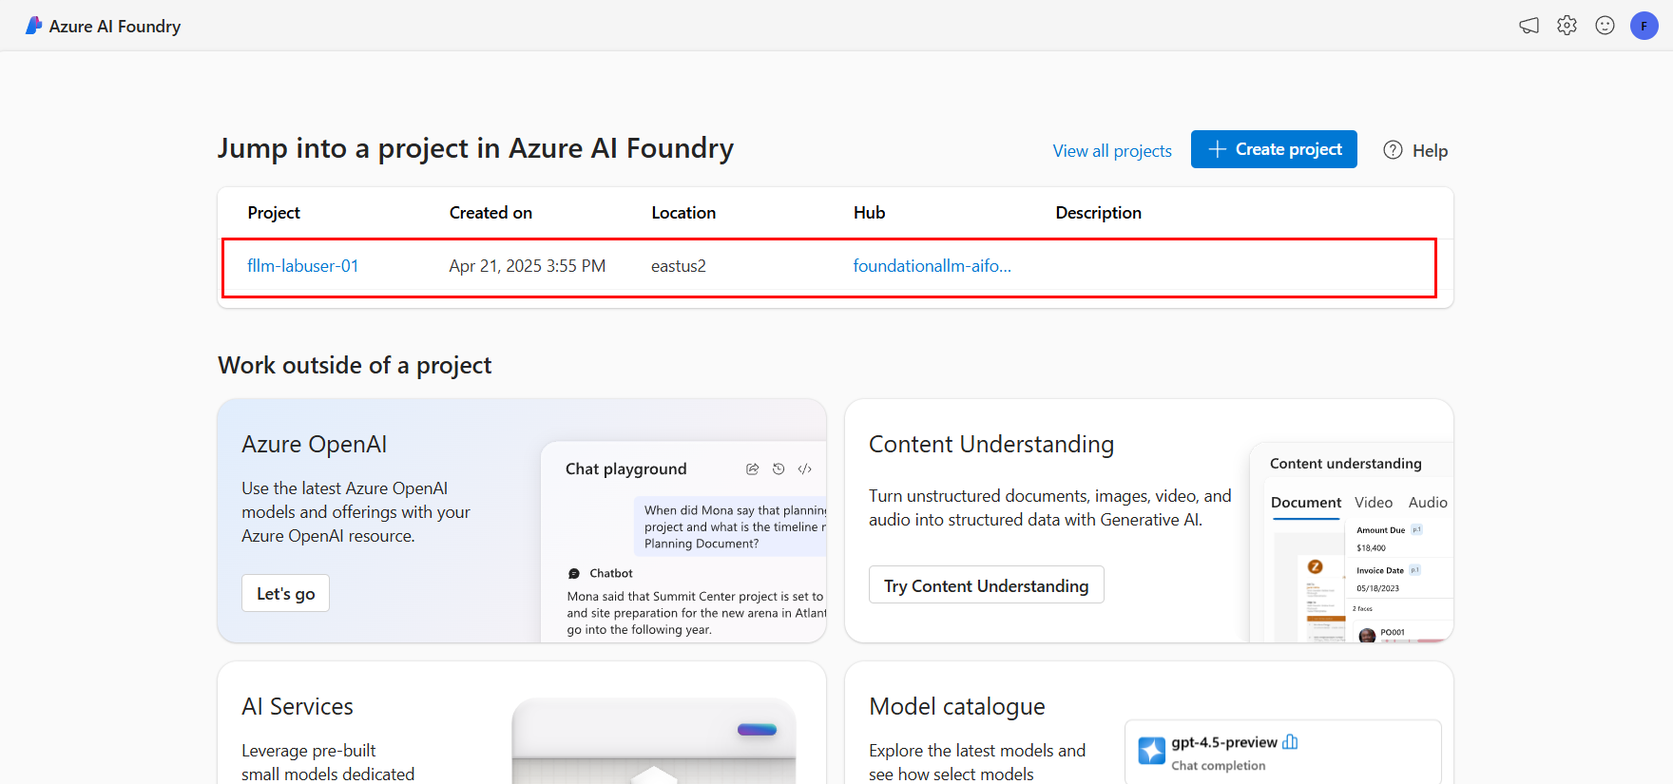
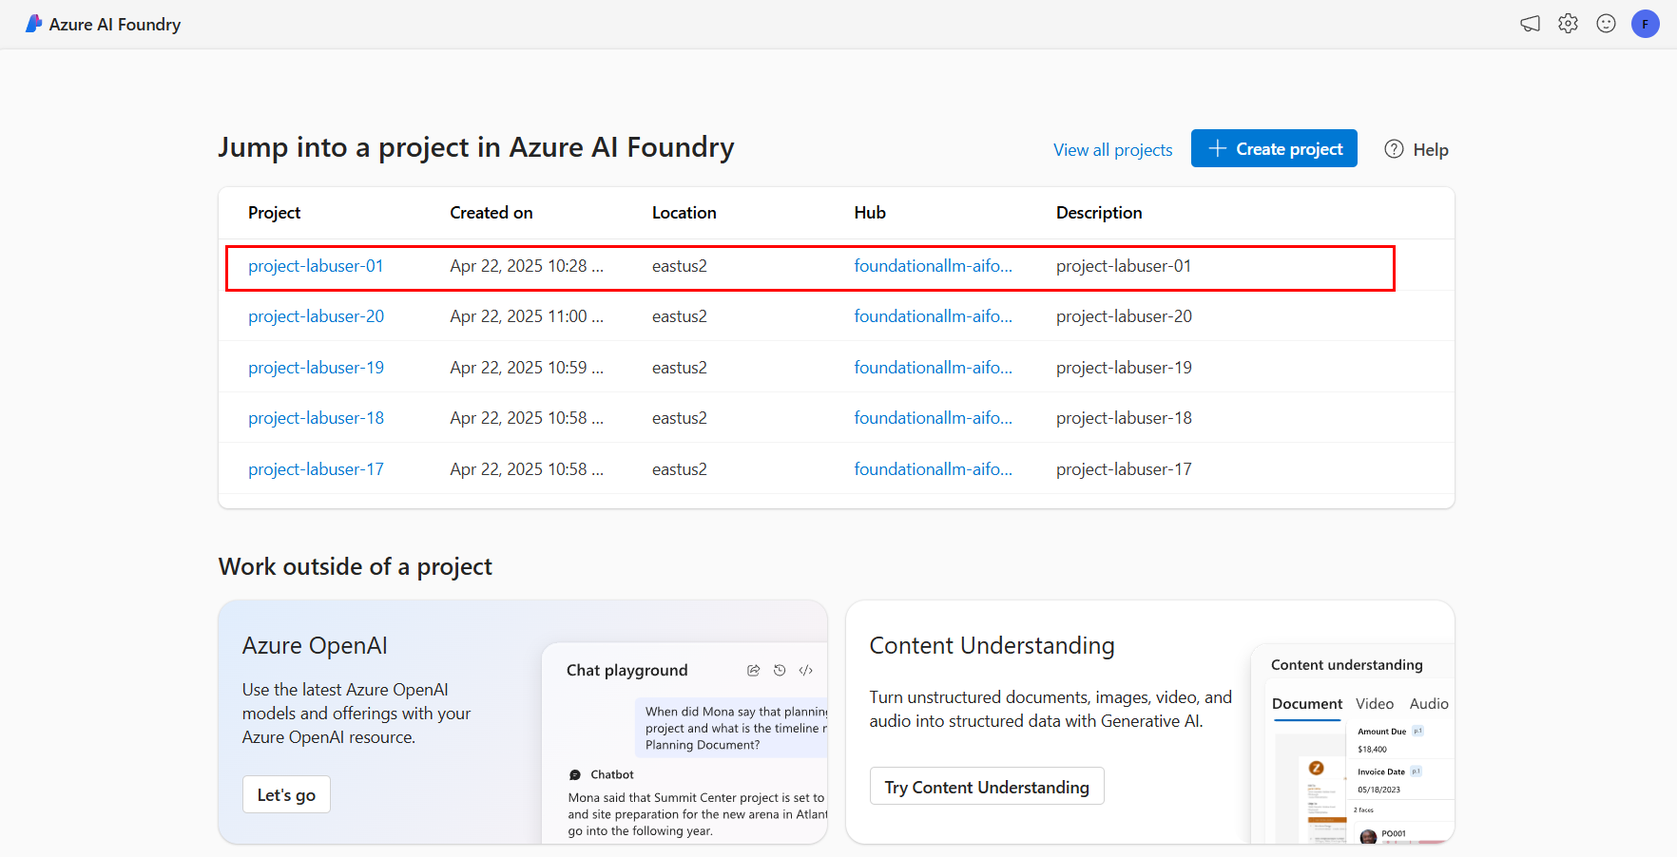
Update lab content

diff --git a/README.md b/README.md
@@ -19,22 +19,22 @@ This repository contains the materials for the **Build Practical AI Solutions wi
 4. **FoundationaLLM Overview** (presentation)
    - Agentic solution with FoundationaLLM
    - How we built FoundationaLLM on top of Azure AI Foundry
-5. **Lab 1: A practical use of the Azure AI Model Inference API** (lab and demo)
+5. **Lab 1: A practical use of the Azure AI Model Inference API** (lab)
 6. **Building Agents** (presentation)
    - Agent creation lifecycle
    - Azure AI Agent Service
    - Azure AI Foundry SDK for Agent Service
-7. **Lab 2: Building agents with AI Foundry and FoundationaLLM** (lab and demo)
+7. **Lab 2: Building agents with Azure AI Foundry** (lab)
 8. **Building Agents - continued** (presentation)
    - Motivations for RAG
    - RAG as a tool
    - Azure AI Search
    - RAG and fine tuning
-9.  **Demo: Knowledge Graphs - the future of RAG** (demo)
+9.  **Demo 1: Knowledge Graphs - the future of RAG** (demo)
 10. **Building Agents - continued** (presentation)
     - Code generation and execution as a tool
     - Analytics as a tool
-11. **Lab 3: Going beyond the basic tools** (lab and demo)
+11. **Demo 2: Going beyond the basic tools** (demo)
 12. **Building Agents - continued** (presentation)
     - Logic apps as a tool
     - Agents as a tool
@@ -54,12 +54,9 @@ This repository contains the materials for the **Build Practical AI Solutions wi
 
 ### Lab 1: A practical use of the Azure AI Model Inference API
 
-   - **Objective**: Understand the Azure AI Model Inference API in Azure AI Foundry and how to leverage it in a solution.
-   - **Duration**: 25 minutes for the lab and 5 minutes for the demo
-   - **Prerequisites**: Access to Azure AI Foundry and FoundationaLLM.
-
->[!NOTE]
-At the end of the lab, the trainer will provide a demo of how is FoundationaLLM using the relevant Azure AI Foundry capabilities behind the scenes. This will help you improve your understanding of the lab and how to leverage the Azure AI Foundry capabilities in a solution.
+- **Objective**: Understand the Azure AI Model Inference API in Azure AI Foundry and how to leverage it in a solution.
+- **Duration**: 30 minutes
+- **Prerequisites**: Access to Azure AI Foundry.
 
 ### Exercise 1: A tour of the Azure AI Foundry Portal
 
@@ -70,93 +67,94 @@ In this exercise, you will tour the Azure AI Foundry Portal. You will be using y
 
 1. Login to the [Azure AI Foundry Portal](https://ai.azure.com/) using your workshop account.
    
-2. Navigate to the `fllm-lab-user-NN` project that is displayed at the top of the scree.
+2. Navigate to the `project-labuser-NN` project that is displayed at the top of the screen.
 
     ![Azure AI Foundry Portal - Hub](media/01-01-foundry-portal-hub.png)
 
-3. Explore the various sections of the portal avilable within the project. Make sure to check **Mode catalog**, **AI Services**, **Agents**, **Templates**, **Tracing**, **Evaluation**, **Safety + security**, and **Models + endpoints**.
+3. Select the **Overview** section from the left navigation pane and explore the service endpoints listed under **Included capabilities**.
 
-    ![Azure AI Foundry Portal - Project](media/01-01-foundry-portal-project.png)
+    ![Azure AI Foundry Portal - Overview](media/01-01-foundry-portal-overview.png)
+
+4. Select the **Model catalog** section from the left navigation pane and explore the various models available within the project.
+
+    ![Azure AI Foundry Portal - Model catalog](media/01-01-foundry-portal-model-catalog.png)
+
+4. Select the **Playgrounds** section from the left navigation pane and explore the various playgrounds available within the project.
+
+    ![Azure AI Foundry Portal - Playgrounds](media/01-01-foundry-portal-playgrounds.png)
+
+5. Select the **AI Services** section from the left navigation pane. Select the **Manage AI Services** button from the top right corner of the screen. Note the AI Services instance named `ai-foundationallmaifoundry693278793889` that is connected to the project. Select its name to view the details of the connection.
+
+    ![Azure AI Foundry Portal - AI Services](media/01-01-foundry-portal-aiservices.png)
+
+6. Select the **Models + endpoints** section from the left navigation pane and explore the various models and endpoints available within the project.
+
+    ![Azure AI Foundry Portal - Models + endpoints](media/01-01-foundry-portal-models-endpoints.png)
+
+7. Spend a few more minutes exploring the rest of the sections in the left navigation pane.
+
 
 ### Exercise 2: Using the Azure AI Model Inference API
 
 In this exercise, you will deply a model and interact with it using the Azure AI Model Inference API. You will be using your workshop account to access the portal.
 
-1. Login to the [Azure AI Foundry Portal](https://ai.azure.com/) using your workshop account. Select the **Models + endpoints** section from the left navigation pane and then select the **Deploy base model** option from the **+ Deploy model** dropdown.
+1. Login to the [Azure AI Foundry Portal](https://ai.azure.com/) using your workshop account. 
+2. Select the **Models + endpoints** section from the left navigation pane and select the `Phi-4` model deployment. Explore the endpoint details and note how the URL `https://ai-foundationallmaifoundry693278793889.services.ai.azure.com/models/chat/completions?api-version=2024-05-01-preview` is agnostic to the model being used. This is because the Azure AI Model Inference API is designed to be a generic API that can be used with any model deployed in Azure AI Foundry.
+
+    ![Azure AI Foundry Portal - Deploy base model](media/01-02-foundry-portal-deployed-model-phi4.png)
+
+3. Explore the details on how to use the API with various programming languages. Note the code examples in various languages that demonstrate how to interact with the model using the Azure AI Model Inference API.
+
+4. Select the **Open in playground** option to open the model in the playground. This will allow you to interact with the model and see how it responds to different questions.
+
+5. We will now deploy a new model. Return to the **Models + endpoints** section and select the **Deploy base model** option from the **+ Deploy model** dropdown.
 
     ![Azure AI Foundry Portal - Deploy base model](media/01-02-foundry-portal-deploy-model.png)
 
-2. Enter the value `phi` in the search box, select the **Phi-4** model from the list of models, and select the **Confirm** button.
+6. Enter the value `phi` in the search box, select the **Phi-4** model from the list of models, and select the **Confirm** button.
 
     ![Azure AI Foundry Portal - Deploy base model - Phi-4](media/01-02-foundry-portal-deploy-model-phi4.png)
 
-3. Select the **Serverless API with Azure AI Content Safety** option and then select the **Deploy** button to deploy the model.
+7. Select the **Agree and Proceed** button to accept the terms and conditions.
 
-4. View the deployment status of the model in the **Models + endpoints** section. The deployment may take a few minutes to complete. Note the code examples in various languages that demonstrate how to interact with the model using the Azure AI Model Inference API.
+8.  Note the details of the deployment in the **Deploy model Phi-4** popup window. Select the **Connect and deploy** button to proceed with the deployment. After a short while, the deployment will fail with an error message stating that you do not have the required permissions to deploy the model. This is expected as the workshop account does not have the required permissions to deploy the model to the connected AI Services instance.
+
+    ![Azure AI Foundry Portal - Deploy model - Phi-4 - Error](media/01-02-foundry-portal-deploy-model-phi4-error.png)
+
+>[!NOTE]
+>In real world scenarios, you will need to separate permissions between different teams from your organization, or even between members of the same team. To provide a simple example of how this works, your lab user was not granted the required permissions to deploy models at the hub level (this is intentional). The user's permissions are limited to the project level. Next, we will deploy the model at the project level.
+
+9. By default, your project is configured to attempt to deploy models to the inference service of the AI Services instance that is connected to the project (the one that your user does not have permissions to deploy to). To change this, select the **Preview features** option from the top right corner of the screen and then make sure to turn off the **Deploy models to the Azure AI model inference service** option. This will allow you to deploy models to the project level.
+
+    ![Azure AI Foundry Portal - Preview features](media/01-02-foundry-portal-preview-features.png)
+
+10. Perform again the actions from steps 5 and 6. Note how the option has changed now. Select **Serverless API with Azure AI Content Safety** option to deploy the model. This option is available because the project is configured to deploy models to the project level.
+
+    ![Azure AI Foundry Portal - Deploy base model - Phi-4 serverless](media/01-02-foundry-portal-deploy-model-phi4-serverless.png)
+
+10. Select the **Deploy** button to deploy the model.
+
+11. View the deployment status of the model in the **Models + endpoints** section. The deployment may take a few minutes to complete. Note the code examples in various languages that demonstrate how to interact with the model using the Azure AI Model Inference API. Note the **API Routes** section and how this deployment option also provides an Azure AI model inference API endpoint (you should see a URL that is similar to `https://Phi-4-fcuqu.eastus2.models.ai.azure.com/chat/completions`).
 
     ![Azure AI Foundry Portal - Deployed base model - Phi-4](media/01-02-foundry-portal-deployed-model-phi4.png)
 
-### Exercise 3: A tour of the FoundationaLLM Management Portal and User Portal
-
-In this exercise, you will tour the FoundationaLLM Management Portal and User Portal. You will be using your workshop account to access the portals.
-
->[!NOTE]
->Your workshop account should be `fllm-labuser-NN@foundationallm.ai` (where `NN` is your lab number assigned at the beginning of the workshop).
-
-1. Login to the [FoundationaLLM Management Portal](https://camanagementuil43jljq2i5ox6.lemondesert-a0804c39.eastus2.azurecontainerapps.io/) using your workshop account.
-2. Navigate to the `All Agents` section and locate the `AIFoundry-NN` agent.
-
-    ![Management Portal - All Agents](media/01-03-management-portal-agents.png)
-
-3. Select the `Edit` action associated with the agent and observe the properties of the agent. Make sure you scroll all the way down to see all the properties.
-
-     ![Management Portal - Agent properties](media/01-03-management-portal-edit-agent.png)
-
-4. Navigate to the `Prompts` section and locate the prompts associated with the `AIFoundry-NN` agent.
-
-    ![Management Portal - Prompts](media/01-03-management-portal-prompts.png)
-
-5. Login to the [FoundationaLLM User Portal](https://cachatuil43jljq2i5ox6.lemondesert-a0804c39.eastus2.azurecontainerapps.io/) using your workshop account.
-6. In the top-right corner, select the `AIFoundry-NN` agent from the dropdown list. This will allow you to interact with the agent you will be working with during the workshop. Ask the agent `Who are you?` to confirm everything is working correctly. The agent should respond as follows:
-
-   ![User Portal - Agent selection and interaction](media/01-03-user-portal.png)
-
->[!NOTE]
->For the reminder of this workshop, the **FoundationaLLM Management Portal** will be referred to as **Management Portal** and the **FoundationaLLM User Portal** will be referred to as **User Portal**. Also, `NN` will identify the lab number assigned to you at the beginning of the workshop.
-
-### Exercise 4: Interact with a FoundationaLLM agent using the Inference API
-   
-1. Login to the [FoundationaLLM User Portal](https://cachatuil43jljq2i5ox6.lemondesert-a0804c39.eastus2.azurecontainerapps.io/) using your workshop account.
-
-2. Submit a question to the `AIFoundry-NN` and note the response.
-
-   TODO: Update screenshot.
-
-3. Login to the [FoundationaLLM Management Portal](https://camanagementuil43jljq2i5ox6.lemondesert-a0804c39.eastus2.azurecontainerapps.io/) using your workshop account. Select the `AIFoundry-NN` agent and edit its settings. Notice the workflow selection on the agent and the workflow model named `Phi3Model`.
-
-   TODO: Update screenshot.
-
-
-FoundationaLLM uses the Azure AI Model Inference API to interact with the model. The API is used to send requests to the model and receive responses. The API is designed to be easy to use and provides a simple interface for interacting with the model.
-
-Next, your instructor will provide a demo of how is this process working behind the scenes.
+You have now completed the lab. You have learned how to deploy a model in Azure AI Foundry and how to interact with it using the Azure AI Model Inference API. You have also explored how to use the Azure AI Model Inference API with different programming languages.
  
-## Lab 2: Building agents with AI Foundry and FoundationaLLM
+## Lab 2: Building agents with Azure AI Foundry
 
-   - **Objective**: Building agents atop Azure AI Foundry capabilities.
-   - **Duration**: 25 minutes for the lab and 5 minutes for the demo
-   - **Prerequisites**: Access to Azure AI Foundry and FoundationaLLM.
-
->[!NOTE]
-At the end of the lab, the trainer will provide a demo of how is FoundationaLLM using the relevant Azure AI Foundry capabilities behind the scenes. This will help you improve your understanding of the lab and how to leverage the Azure AI Foundry capabilities in a solution.
+- **Objective**: Building agents atop Azure AI Foundry capabilities.
+- **Duration**: 30 minutes
+- **Prerequisites**: Access to Azure AI Foundry.
 
 ### Exercise 1: Create a new agent in the Azure AI Foundry portal
 
-1. Login to the [Azure AI Foundry Portal](https://ai.azure.com/) using your workshop account. Select the **Agents** section from the left navigation pane and then select the **+ New agent** option.
+1. Login to the [Azure AI Foundry Portal](https://ai.azure.com/) using your workshop account. Select the **Agents** section from the left navigation pane. If this is the first time you are accessing the portal, you will need to select an Azure Open AI Service resource. From the dropdown list select the `aifoundationallmaifoundry693278793889_aoai` option and the select the **Let's go** button. If you are not prompted to select an Azure Open AI Service resource, skip this step and select the **+ New agent** button.
 
-    TODO: Update screenshot.
+    ![Azure AI Foundry Portal - Select Azure Open AI Service resource](media/02-01-agents-select-azure-openai-resource.png)
 
-2. Under the **Deployment** section, select the `gpt-4o-mini` model from the list of models. This is a smaller version of the `gpt-4o` model and is used for demonstration purposes.
+2. A new agent has been created for you. Note the properties of the agent. Note how the `gpt-4o-mini` model deployment has been automatically selected for the agent, as this is the only Azure OpenAI model deployment that is compatible with the agent.
+
+    ![Azure AI Foundry Portal - New agent](media/02-01-agents-properties.png)
 
 3. Under the **Instructions** section, enter the following instructions:
 
@@ -166,127 +164,80 @@ At the end of the lab, the trainer will provide a demo of how is FoundationaLLM 
 
 4. Select the **Try in playground** option to test the agent in the playground. This will allow you to interact with the agent and see how it responds to different questions.
 
-5. Return to the agent settings page and try using different instructions to see how the agent responds.
+    ![Azure AI Foundry Portal - Try in playground](media/02-01-agents-playground.png)
+
+5. Change the following agent settings to see how the agent responds after each change:
+   - Instructions
+   - Mode settings - Temperature
+   - Mode settings - Top P
 
 ### Exercise 2: Add a code interpreter action to the agent
 
-1. Under the **Actions** section, select the **+ Add** option and then select the **Code interpreter** action from the list of actions. Select **Save** to save the action.
+1. Under the **Actions** section, select the **+ Add** option. 
 
-2. Navigate to the playground and ask the agent the following question:
+    ![Azure AI Foundry Portal - Add code interpreter action](media/02-02-agents-add-action.png)
+
+2. Select the **Code interpreter** action from the list of actions.
+
+    ![Azure AI Foundry Portal - Code interpreter action](media/02-02-agents-add-code-interpreter.png)
+
+3. Select the **Save** button to add the action to the agent.
+
+    ![Azure AI Foundry Portal - Code interpreter action saved](media/02-02-agents-add-code-interpreter-save.png)
+
+4. Navigate to the playground and ask the agent the following question:
 
     ```txt
     Create Python code to calculate the first 10 Fibonacci numbers. Calculate the numbers and make the code available for download.
     ```
 
-3. Note how the agent responds with the code and the download link. Download the code file and open it to validate the code.
+5. Note how the agent responds with the code and the download link. Download the code file and open it to validate the code.
 
 ### Exercise 3: Add a knowledge action to the agent
 
-1. Under the **Knowledege** section, select the **+ Add** option and then select the **Files** action from the list of actions. Do not change the default options related to the vector store. Select the **Select local files** to upload files. Upload the [The Adventure of Whiskers](media/The_Adventure_of_Whiskers.pdf) file and select **Upload and save** to save the action.
+1. Under the **Knowledege** section, select the **+ Add** option. Select the **Files** options from the list of data sources.
+   
+    ![Azure AI Foundry Portal - Add knowledge action](media/02-03-agents-add-knowledge.png)
 
-2. Navigate to the playground and ask the agent the following question:
+2. Do not change the default options related to the vector store. Select the **Select local files** to upload files. 
+   
+    ![Azure AI Foundry Portal - Add knowledge action - Select local files](media/02-03-agents-add-knowledge-upload.png)
+
+3. Upload the [The Adventure of Whiskers](media/The_Adventure_of_Whiskers.pdf) file and select **Upload and save** to save the action.
+   
+    
+    ![Azure AI Foundry Portal - Add knowledge action - Upload](media/02-03-agents-add-knowledge-save.png)
+
+4. Navigate to the playground and ask the agent the following question:
 
     ```txt
     Tell me about the adventure of Whiskers.
     ```
 
-3. Note how the agent responds with the content.
+5. Note how the agent responds with the content.
 
-### Exercise 4: Interact with a FoundationaLLM agent that uses the `AzureAIAgentService` workflow.
+### Exercise 4: Use a combination of knwoledge and code interpreter actions
 
-1. Login to the [FoundationaLLM User Portal](https://cachatuil43jljq2i5ox6.lemondesert-a0804c39.eastus2.azurecontainerapps.io/) using your workshop account. Select the `AIFoundry-NN` agent from the dropdown list and ask the following question:
-
-    ```txt
-    Which are the planets of our solar system?
-    ```
-
-2. Now ask the following question:
+1. Ask the agent the following question:
 
     ```txt
-    Which are the planets of our solar system?
+    Create a PDF file that contains a summarized version of the adventure of Whiskers. Make the file available for download.
     ```
+You have now completed the lab. You have learned how to create an agent in Azure AI Foundry and how to add actions to the agent. You have also explored how to use the agent in the playground and how to interact with it using different actions.
 
-   Notice how the agent does not have knowledge about the previous question. This is because the agent is stateless and does not retain any information between interactions.
 
-3. Login to the [FoundationaLLM Management Portal](https://camanagementuil43jljq2i5ox6.lemondesert-a0804c39.eastus2.azurecontainerapps.io/) using your workshop account. Select the `AIFoundry-NN` agent and edit its settings. 
-4. Navigate to the **Should user prompts be rewritten?** and activate prompt rewriting. 
-5. Navigate to the **Should semantic cache be used?** and activate the semantic cache.
-6. Return to the **User Portal** and ask the questions again. Note how the agent now retains the information between interactions. Select the `Workflow` content artifact and observe the difference between the `user_prompt` and `user_prompt_rewrite` values.
+## Demo 1: Knowledge Graphs - the future of RAG
+    
+ - **Objective**: Understand the limitations of basic RAG, understand the potential of Knowledge Graphs and how can they be applied to improve RAG performance.
+ - **Duration**: 30 minutes
+ - **Prerequisites**: None
 
-7. Create a new conversation with the `AIFoundry-NN` agent and upload the [The Adventure of Whiskers](media/The_Adventure_of_Whiskers.pdf) file before asking the following question:
+In this interactive demo we will explore how to use knowledge graphs to enhance the performance of RAG (Retrieval-Augmented Generation) agents. We will demonstrate the FoundationaLLM implementation of knowledge graphs and how they can be used to improve the performance of RAG agents.
 
-    ```txt
-    Tell me about the adventure of Whiskers.
-    ```
+## Demo 2: Going beyond the basic tools
 
-   Note the response of the agent and the `Knowledge` content artifact.
+  - **Objective**: Understand which are the benefits and the challenges of implementing a practical, enterprise-grade AI solution on top of Azure AI Foundry.
+  - **Duration**: 30 minutes
+  - **Prerequisites**: None
 
-Next, your instructor will provide a demo of how is this process working behind the scenes.
-
-## Lab 3: Going beyond the basic tools
-
-   - **Objective**: Understand the possiblities on building on top of and expanding the capabilities of agents.
-   - **Duration**: 25 minutes for the lab and 5 minutes for the demo
-   - **Prerequisites**: Access to FoundationaLLM.
-
->[!NOTE]
-At the end of the lab, the trainer will provide a demo of how is FoundationaLLM using the relevant Azure AI Foundry capabilities behind the scenes. This will help you improve your understanding of the lab and how to leverage the Azure AI Foundry capabilities in a solution.
-
-### Exercise 1: Using a SQL tool that connects to a Microsoft Fabric Warehouse
-
-1. Login to the [FoundationaLLM User Portal](https://cachatuil43jljq2i5ox6.lemondesert-a0804c39.eastus2.azurecontainerapps.io/) using your workshop account. Select the `AIFoundry-NN` agent from the dropdown list and ask the following question:
-
-    ```txt
-    Which are the zip codes of Fairfield County, OH?
-    ```
-2. Select the `SQL` content artifact and observe the details of the invocation of the newly added SQL tool.
-
-    ![User Portal - SQL tool invocation](media/03-01-user-portal-agent-with-sql-tool-response.png)
-
-3.  Let's explore the capabilities of the `SQL` tool. Return to the **Management Portal**, edit the agent, navigate to the **Tools** section and then edit the `SQL` tool. 
-
-    ![Management Portal - Edit SQL tool](media/03-01-management-portal-edit-sql-tool.png)
-
-4. Notice the settings of the tool. The `SQL` tool is configured to connect to a Microsoft Fabric Warehouse. The connection is preconfigured for you.
-
-   ![Management Portal - SQL tool properties](media/03-01-management-portal-sql-tool-properties.png)
-
-5.  Note the prompts associated with the SQL tool. To view their definitions, from the left sidebar, select `Prompts` section (underneath the `Agents` header), locate the `AIFoundry-NN-Tool-SQL-Main` prompt and select the `Edit` action associated with it. Notice the prompt template and the prompt parameters. The prompt template is used to generate the SQL query that will be executed.
-
-6. In the **User Portal**, ask the following question: 
-   
-   ```txt
-   What is the history of Ohio?
-   ```
-
-   Select the `Knowledge` content artifact and observe the details of the invocation of the knowledge source tool.
-
-7. Ask the following question: 
-   
-   ```txt
-   How was Fairfield County, OH named and which are its zip codes?`
-   ```
-
-   Notice how both the `SQL` and `Knowledge` tools are invoked to answer the question.
-
-### Exercise 2: Using a KQL tool that connects to a Microsoft Fabric Evenhouse
-
-1. Login to the [FoundationaLLM User Portal](https://cachatuil43jljq2i5ox6.lemondesert-a0804c39.eastus2.azurecontainerapps.io/) using your workshop account. Select the `AIFoundry-NN` agent from the dropdown list and ask the following question:
-
-    ```txt
-    What is the latest OHLC value of MSFT?
-    ```
-
-2. Select the `KQL` content artifact and observe the details of the invocation of the KQL tool.
-
-### Exercise 3: Using a File Analysis tool that connects to a Parquet file in OneLake
-
-1. Login to the [FoundationaLLM User Portal](https://cachatuil43jljq2i5ox6.lemondesert-a0804c39.eastus2.azurecontainerapps.io/) using your workshop account. Select the `AIFoundry-NN` agent from the dropdown list and ask the following question:
-
-    ```txt
-    What is the average price of products of type Jackets?
-    ```
-
-2. Select the `FileAnalysis` content artifact and observe the details of the invocation of the File Analysis tool.
-
-Next, your instructor will provide a demo of how is this process working behind the scenes.
+In this interactive demo we will explore how to use the FoundationaLLM platform to build agents that go beyond the basic tools. We will demonstrate how to use the FoundationaLLM platform to build agents that can perform complex tasks and how to use the FoundationaLLM platform to enrich the performance of agents with capabilities such as prompt rewriting, semantic caching, analytics, and more.
